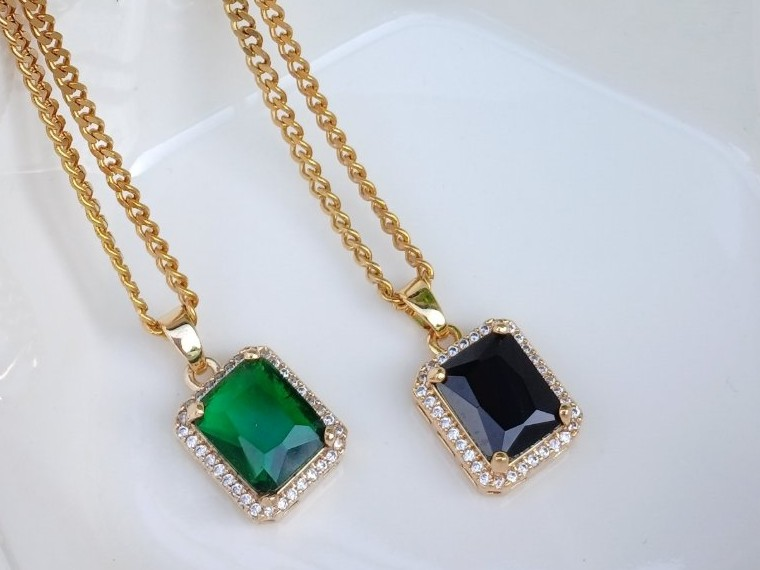
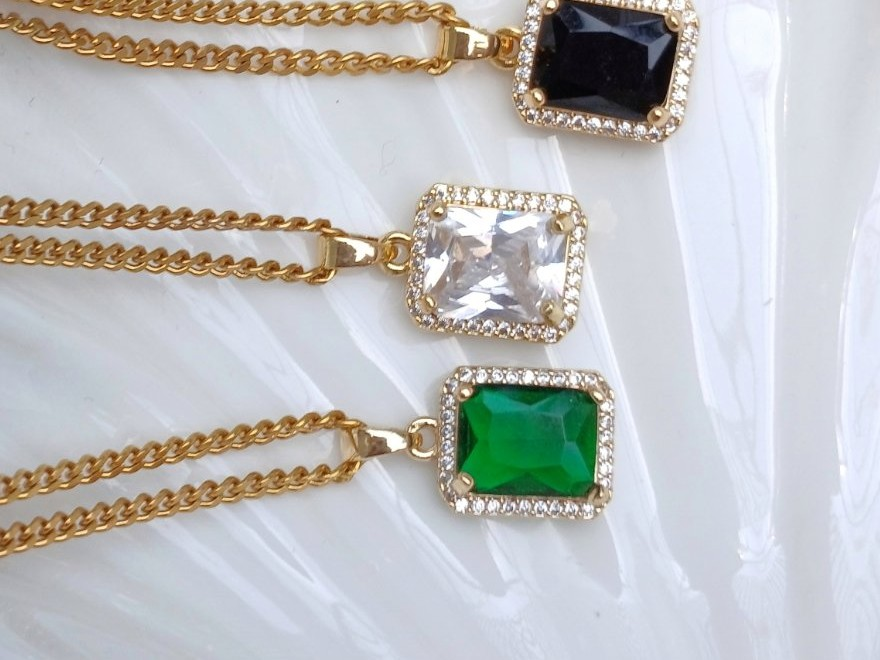
Home hero: new photo of the three Square Gem Pendants
Claude-Session: https://claude.ai/code/session_01D34MmGYoTrdKPLxeYFwEr4

diff --git a/index.html b/index.html
@@ -76,7 +76,7 @@
       </div>
       <div class="hero-media reveal">
         <img class="main" src="images/web/HERO-LEAF1.webp" alt="Silver Heart Drops earrings on a green leaf" width="800" height="1000" fetchpriority="high">
-        <img class="float" src="images/web/HERO-LEAF2.webp" alt="Square Gem Pendant necklaces in emerald and onyx" width="760" height="570">
+        <img class="float" src="images/web/HERO-LEAF2.webp?v=2" alt="Square Gem Pendant necklaces in onyx, crystal and emerald" width="880" height="660">
       </div>
     </div>
     </section>
